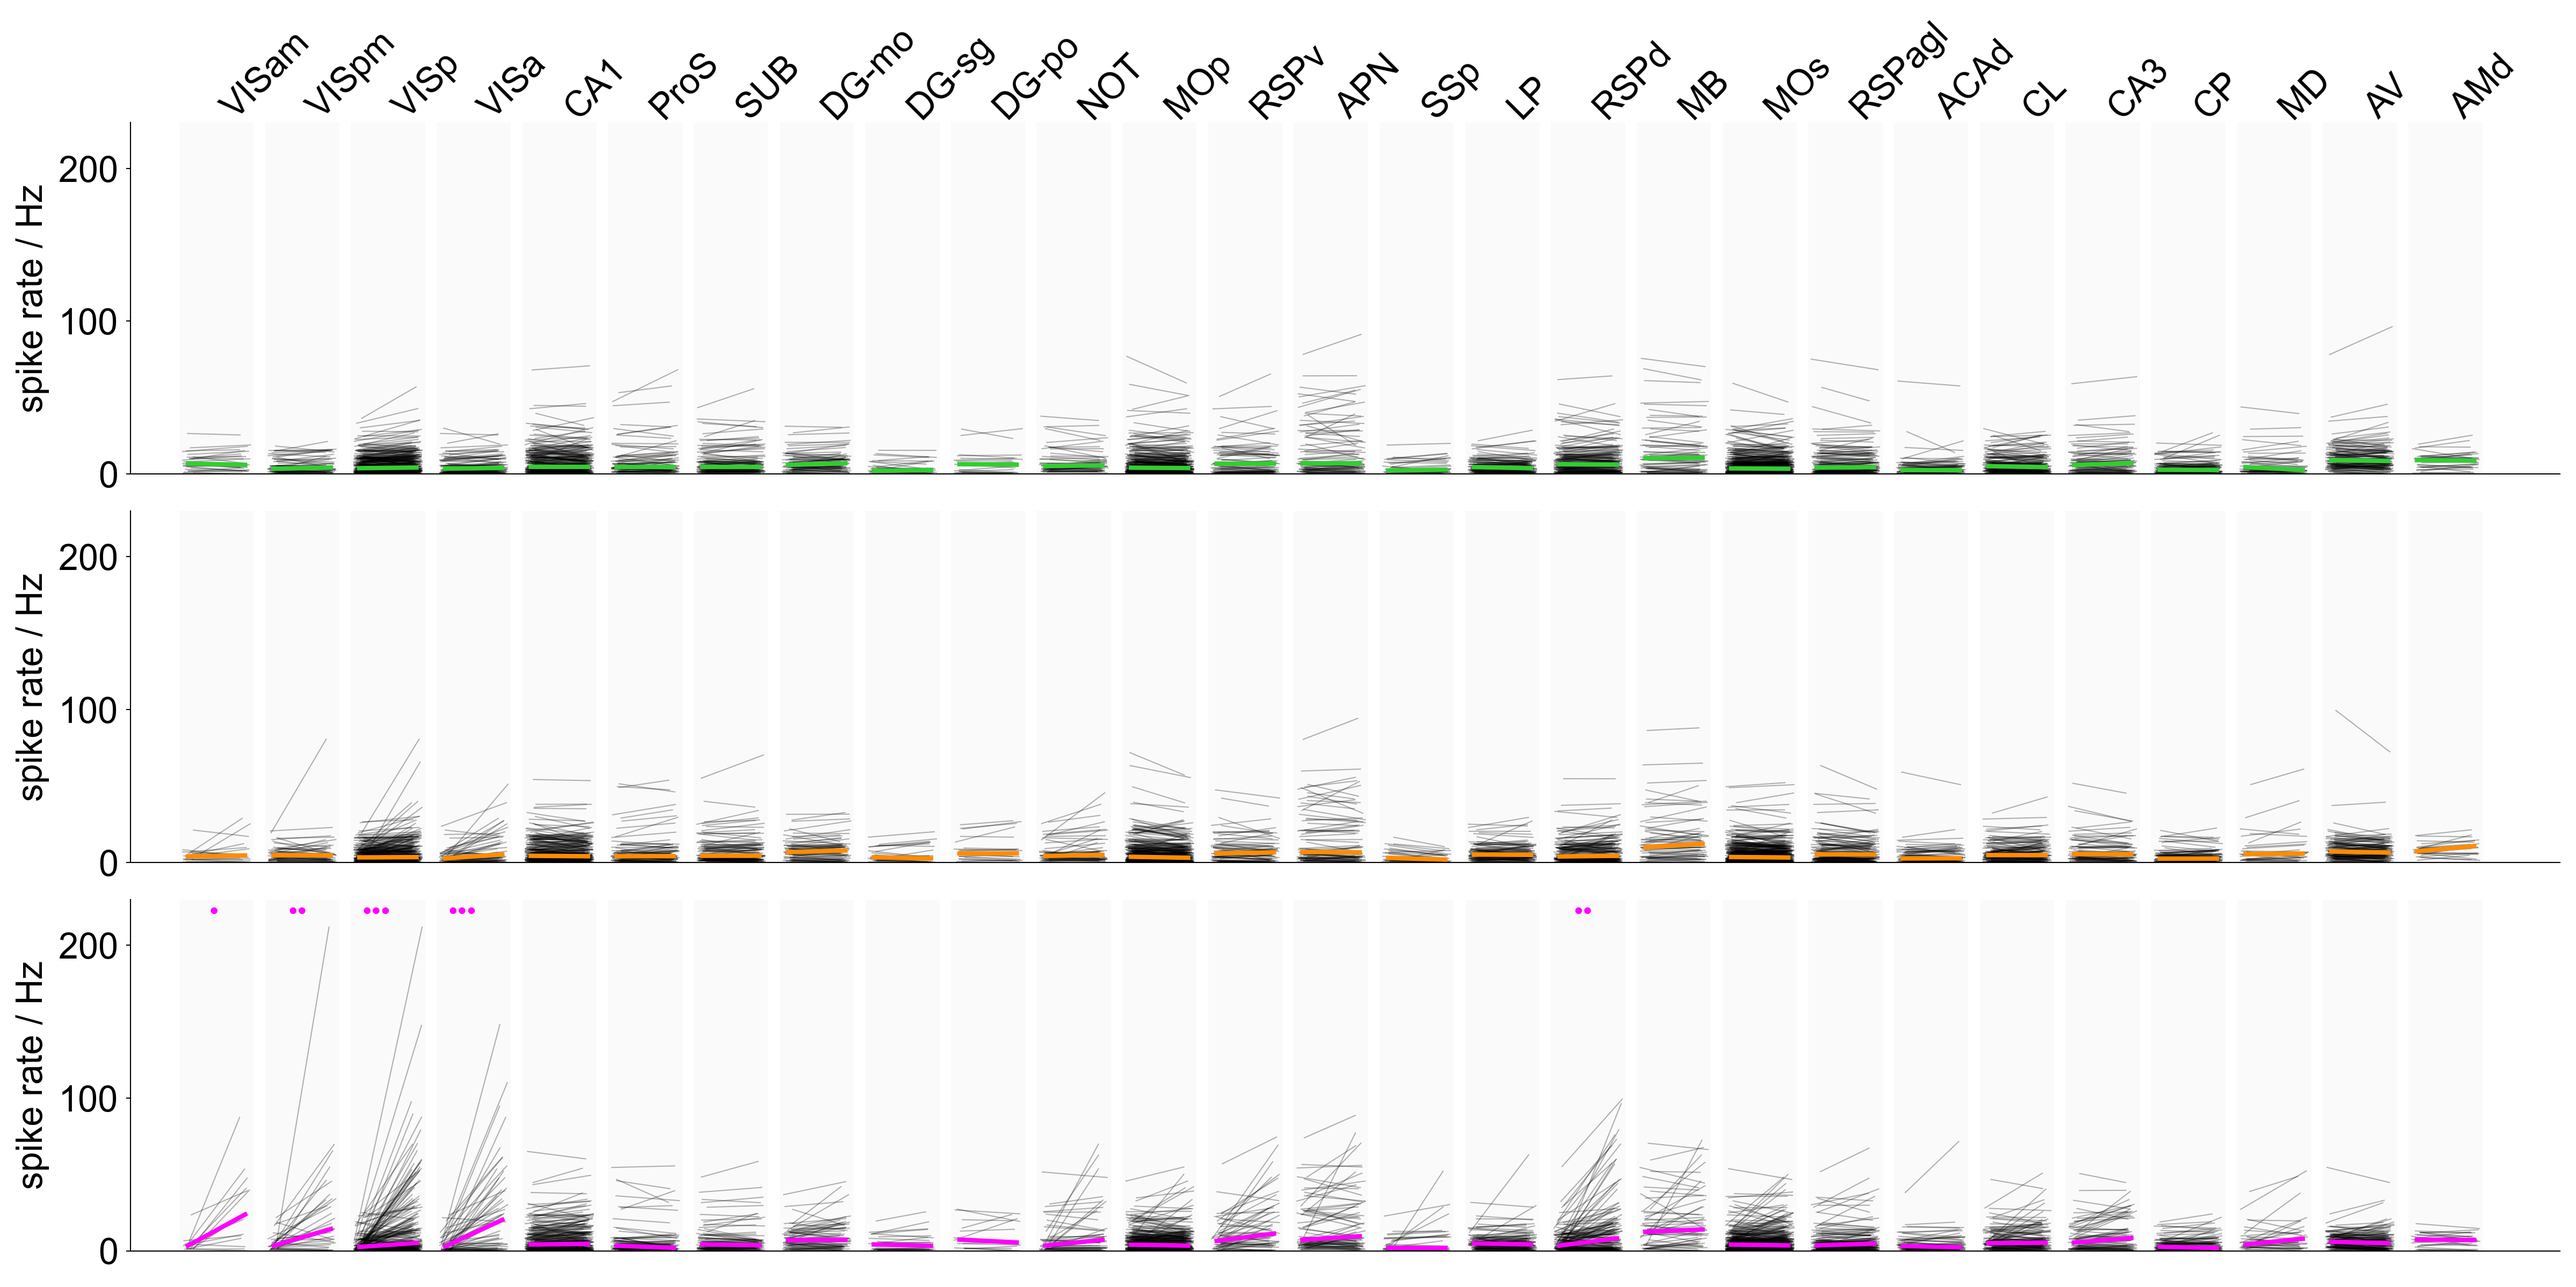
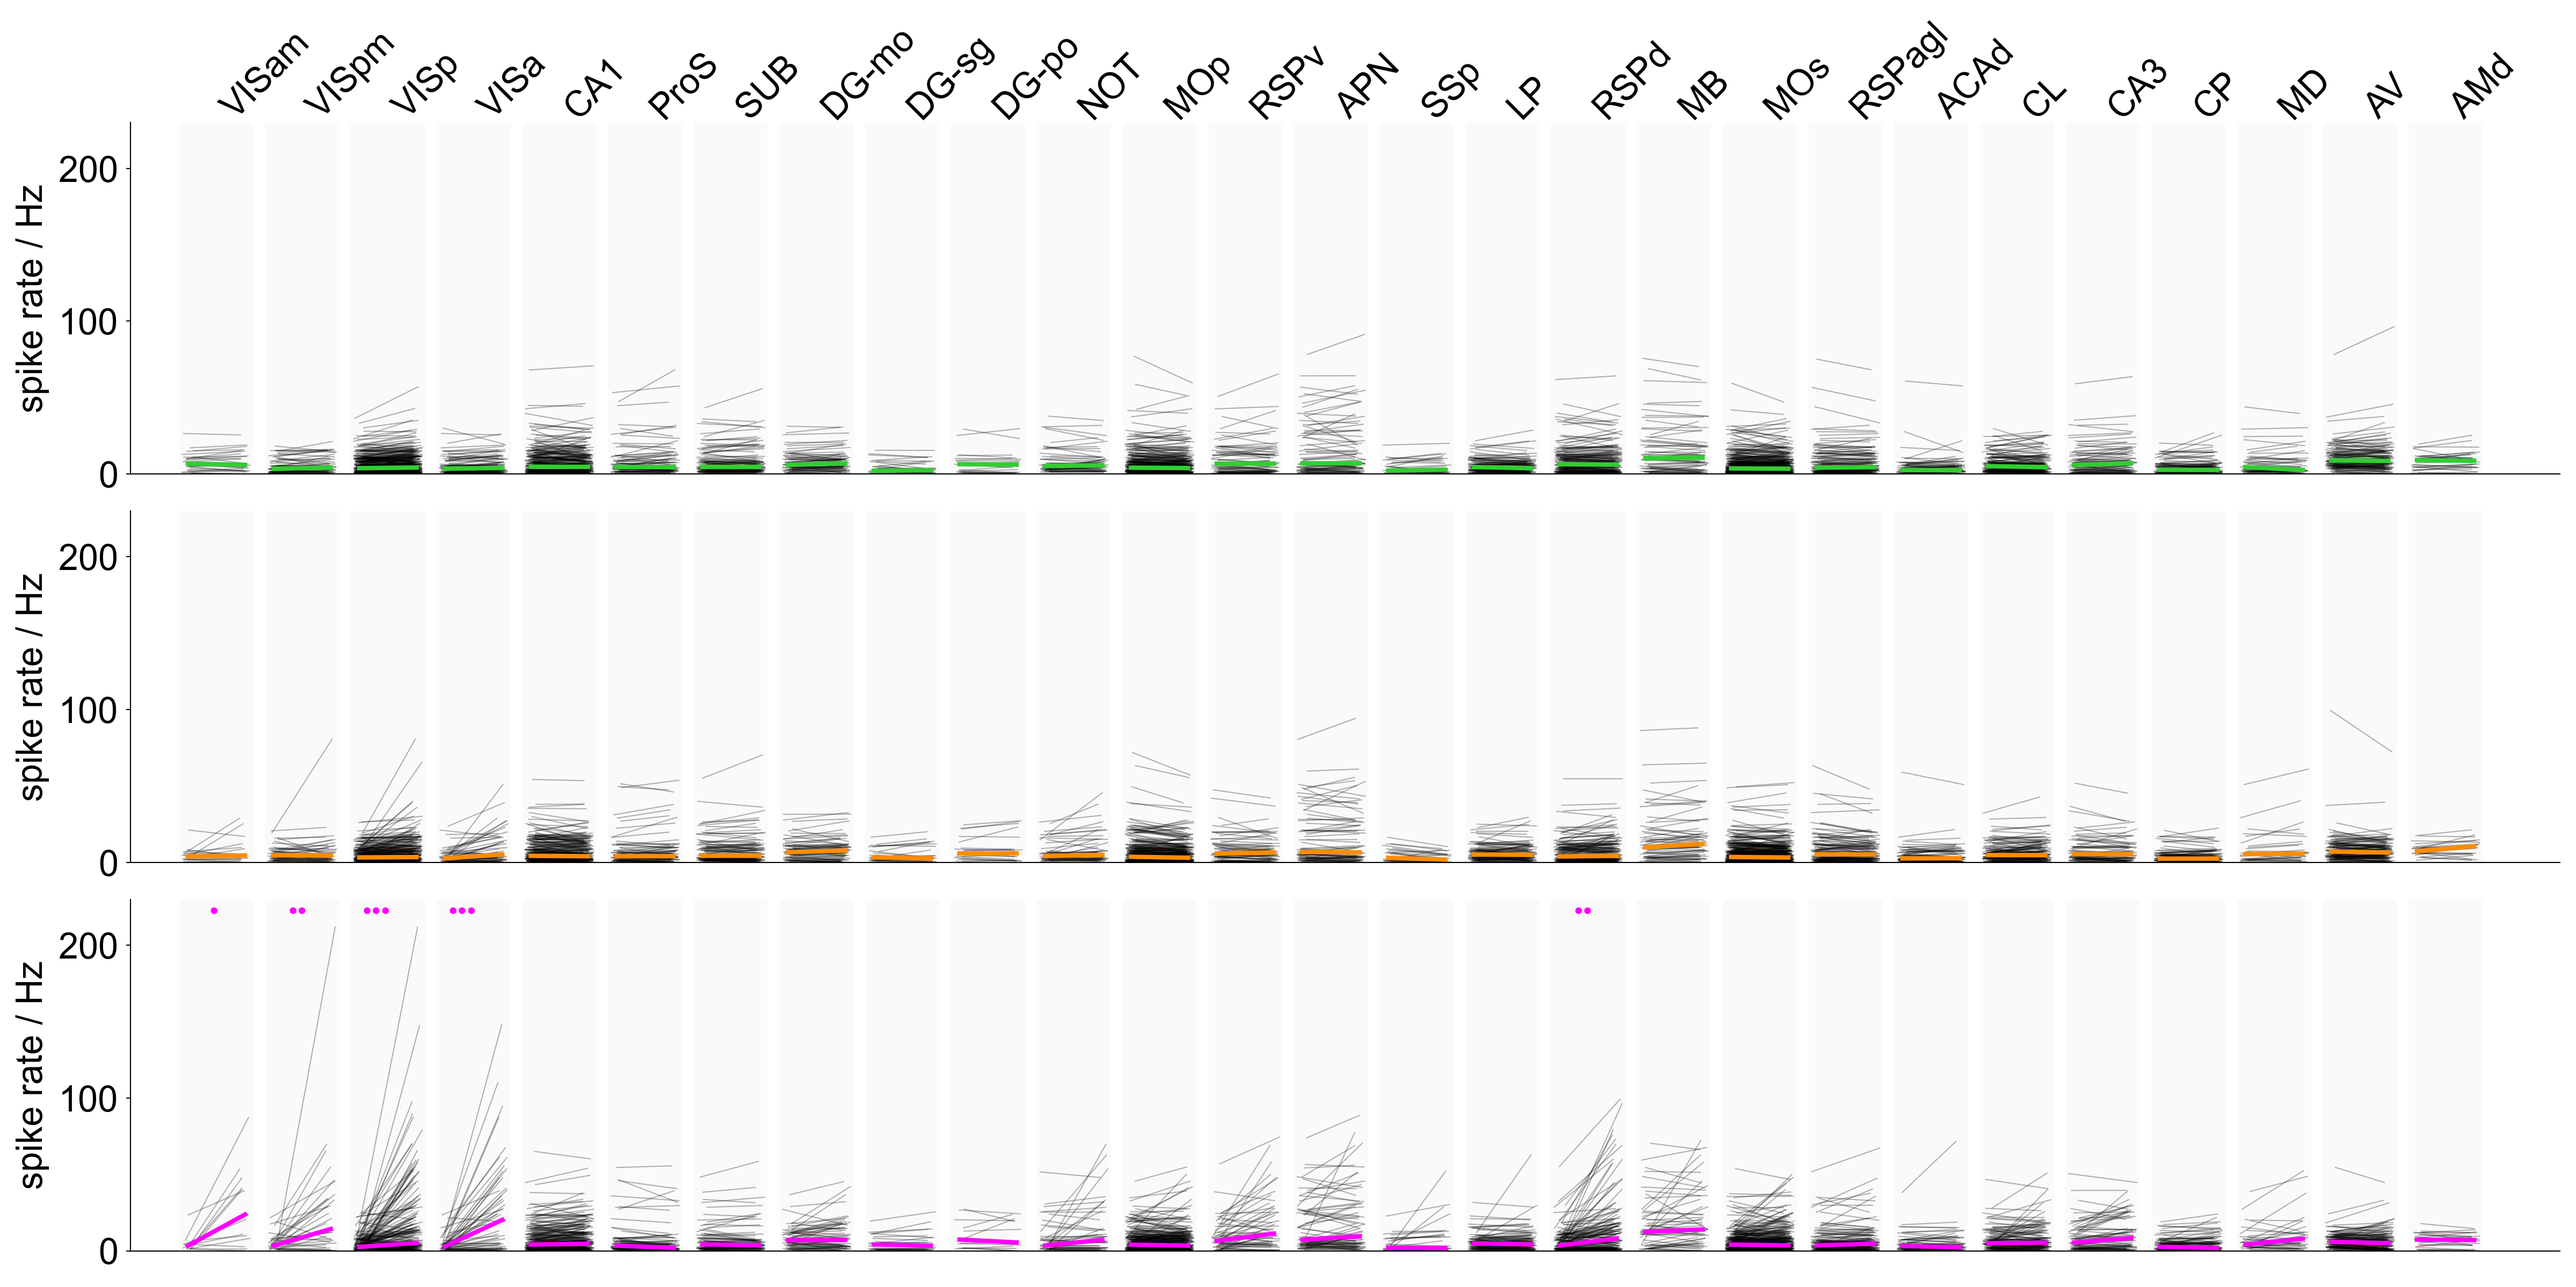
Clean up brain area documentation and reconcile area counts
- Document 5 excluded unit CSV files (2 fiber tracts, 1 aggregate, 2 duplicates)
- Add recording scope section to data/README.md
- Update area count from "34" to "29 gray-matter regions"
- Remove legacy area aliases from config/brain_areas.py
- Reconcile ~53 total areas (manuscript) vs 29 (repo figures) in documentation

diff --git a/config/brain_areas.py b/config/brain_areas.py
@@ -46,8 +46,6 @@ AREA_NAME_MAPPING = {
     'visp': 'VISp',
     'mop': 'MOp',
     'mos': 'MOs',
-    'ss_ctx': 'SSp-tr',
-    'anterior_cingulate': 'SSp-tr'
 }
 
 def get_display_name(internal_name):

diff --git a/data/README.md b/data/README.md
@@ -1,5 +1,11 @@
 # Data dictionary
 
+## Recording scope
+
+The full recording coverage in this study spanned ~53 brain areas across 14 mice. This repository contains the subset of areas (29 gray-matter regions for Figures 2–3; 27 areas for Figure 4) that passed quality filters (waveform error < 0.1) and minimum unit-count thresholds (≥ 8 units per condition) required for statistical analysis. Areas below these thresholds are not included in the per-area unit CSVs or figure scripts. The transient dataset (`unified_data_transient.csv`) retains all recorded units across 45 parent gray-matter areas using layer-specific Allen Brain Atlas labels, before any unit-count filtering.
+
+---
+
 ## units/
 
 One CSV per combination of stimulation frequency, amplitude, and brain area.
@@ -7,7 +13,7 @@ One CSV per combination of stimulation frequency, amplitude, and brain area.
 **Naming:** `units_{frequency}Hz_{amplitude}_{brain_area}.csv`
 - Frequencies: 8, 28, 140 Hz
 - Amplitudes: 1, 5 µA
-- Brain areas: 34 regions (CA1, VISp, MOp, ACAd, SUB, DG, CL, etc.)
+- Brain areas: 29 gray-matter regions used in the published analyses. An additional 5 files (2 white matter tracts, 1 aggregate, 2 duplicate mappings) are retained for completeness; see [`EXCLUDED_AREAS.md`](units/EXCLUDED_AREAS.md).
 
 An additional file, `naming_convention.csv`, maps internal brain-area labels to display names used in the figures.
 

diff --git a/README.md b/README.md
@@ -104,8 +104,8 @@ All statistical tests are implemented in `src/statistics.py`. The analyses use:
 
 Detailed column-by-column data dictionaries are in [`data/README.md`](data/README.md).
 
-- **Unit-level CSVs** (`data/units/`): one file per frequency × amplitude × brain area combination, containing VL, MMR, spike counts, firing rates, waveform features, and distances for every recorded unit.
-- **Transient data** (`data/unified_data_transient.csv`): firing-rate summary statistics in multiple time windows, transient onset/offset, and cell-type classification for Figure 4.
+- **Unit-level CSVs** (`data/units/`): one file per frequency × amplitude × brain area combination, covering 29 gray-matter regions that met minimum unit-count thresholds for the published analyses. Contains VL, MMR, spike counts, firing rates, waveform features, and distances for every recorded unit.
+- **Transient data** (`data/unified_data_transient.csv`): firing-rate summary statistics in multiple time windows, transient onset/offset, and cell-type classification for Figure 4. Retains all recorded units across the full ~53-area recording coverage (45 parent gray-matter areas) before any unit-count filtering.
 - **Connectivity matrices** (`data/connectivity/`): Allen Mouse Brain Atlas structural connectivity, used for regression analyses of entrainment strength vs anatomical connection weight.
 
 ## Contact

diff --git a/data/units/EXCLUDED_AREAS.md b/data/units/EXCLUDED_AREAS.md
@@ -1,0 +1,13 @@
+# Excluded area files
+
+The following 5 area labels have unit CSV files in this directory but are
+**excluded from all published figure analyses**. The files are retained for
+completeness and provenance.
+
+| File pattern | Label | Reason for exclusion |
+|---|---|---|
+| `units_*_ccb.csv` | ccb (corpus callosum body) | White matter fiber tract, not a gray-matter brain area |
+| `units_*_cing.csv` | cing (cingulum bundle) | White matter fiber tract, not a gray-matter brain area |
+| `units_*_DG.csv` | DG (dentate gyrus aggregate) | Redundant aggregate of DG-mo, DG-po, and DG-sg, which are already present as separate files |
+| `units_*_anterior_cingulate.csv` | anterior_cingulate | Legacy label that maps to SSp-tr — duplicate of `units_*_SSp_tr.csv` |
+| `units_*_ss_ctx.csv` | ss_ctx | Legacy label that also maps to SSp-tr — duplicate of `units_*_SSp_tr.csv` |
